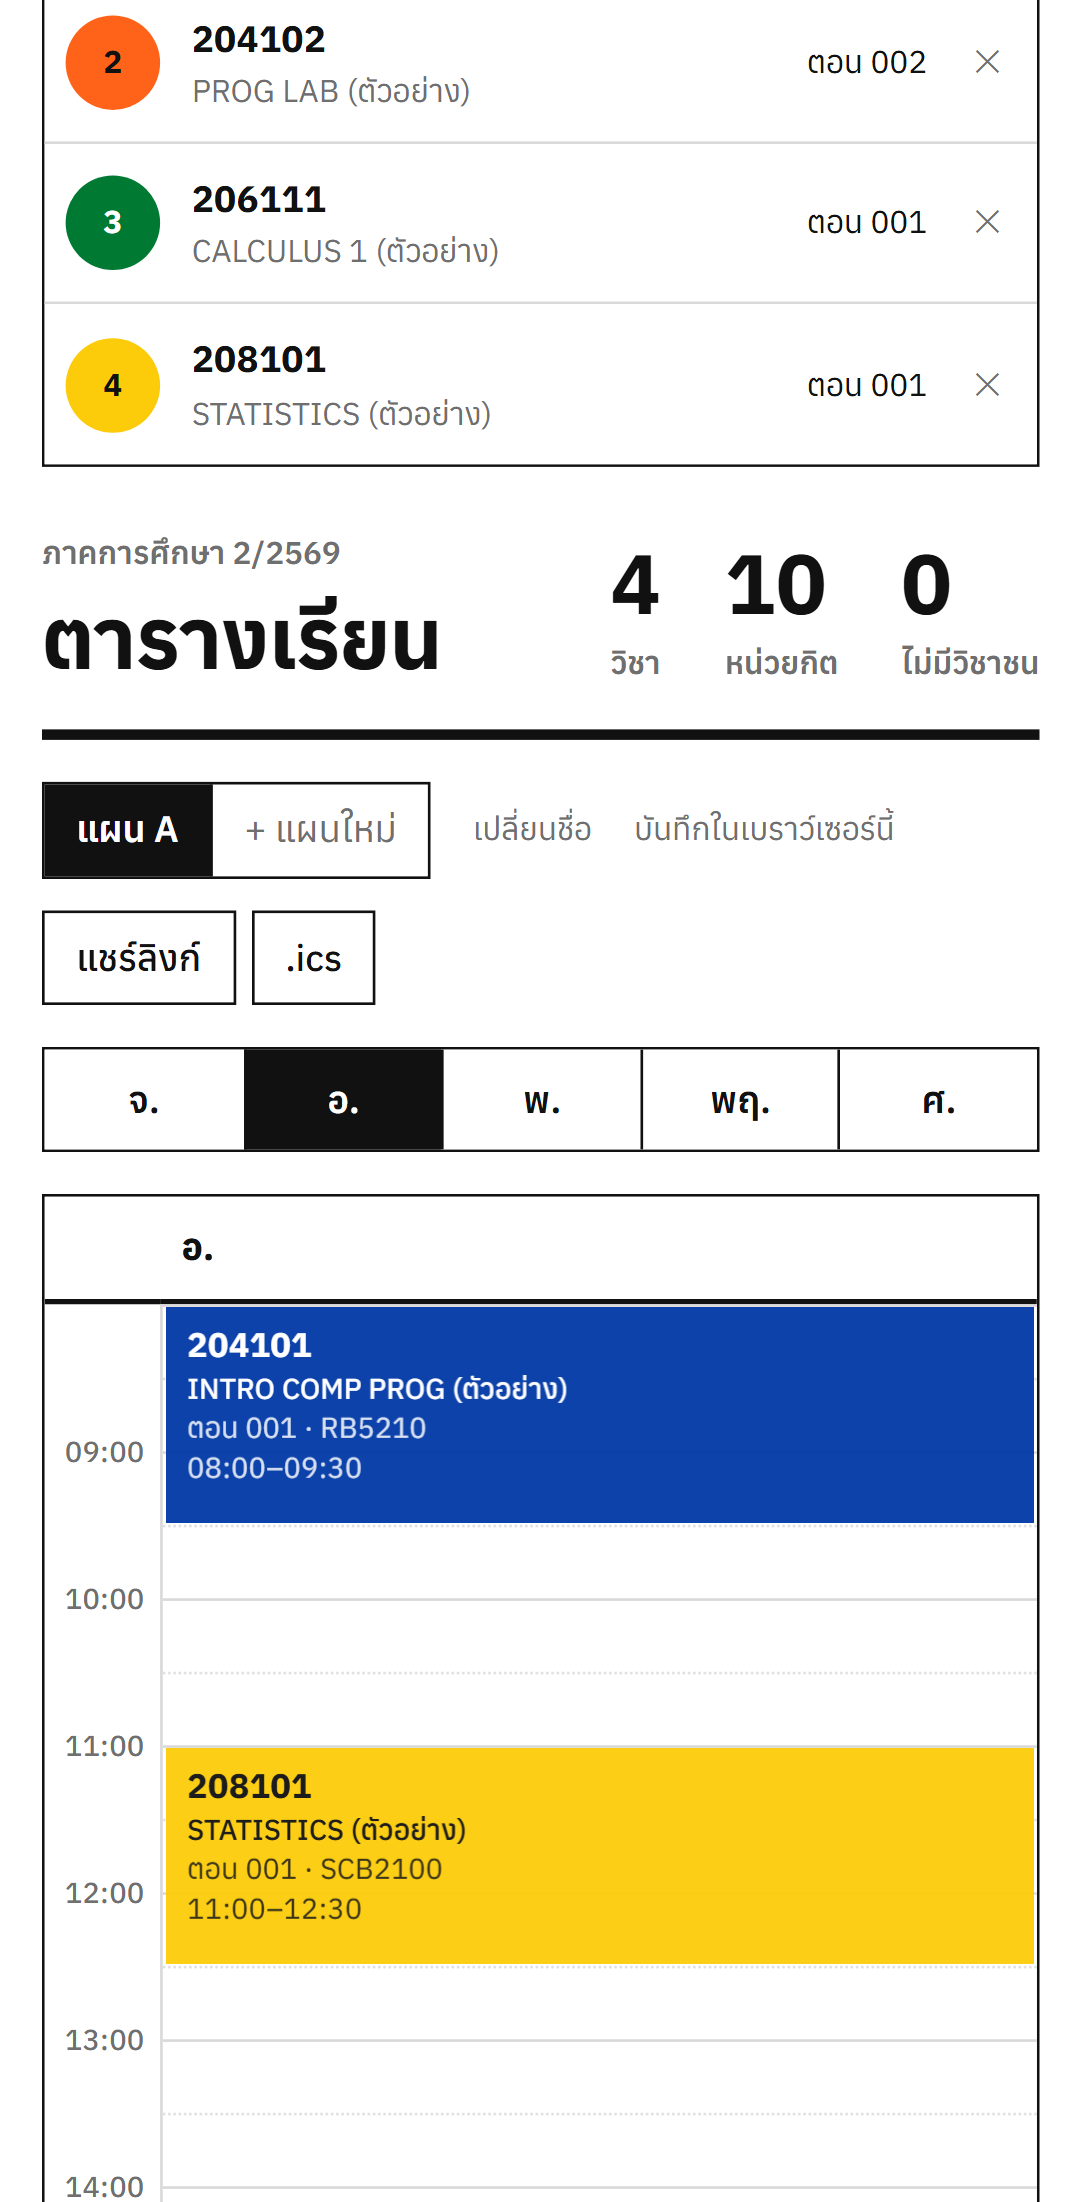
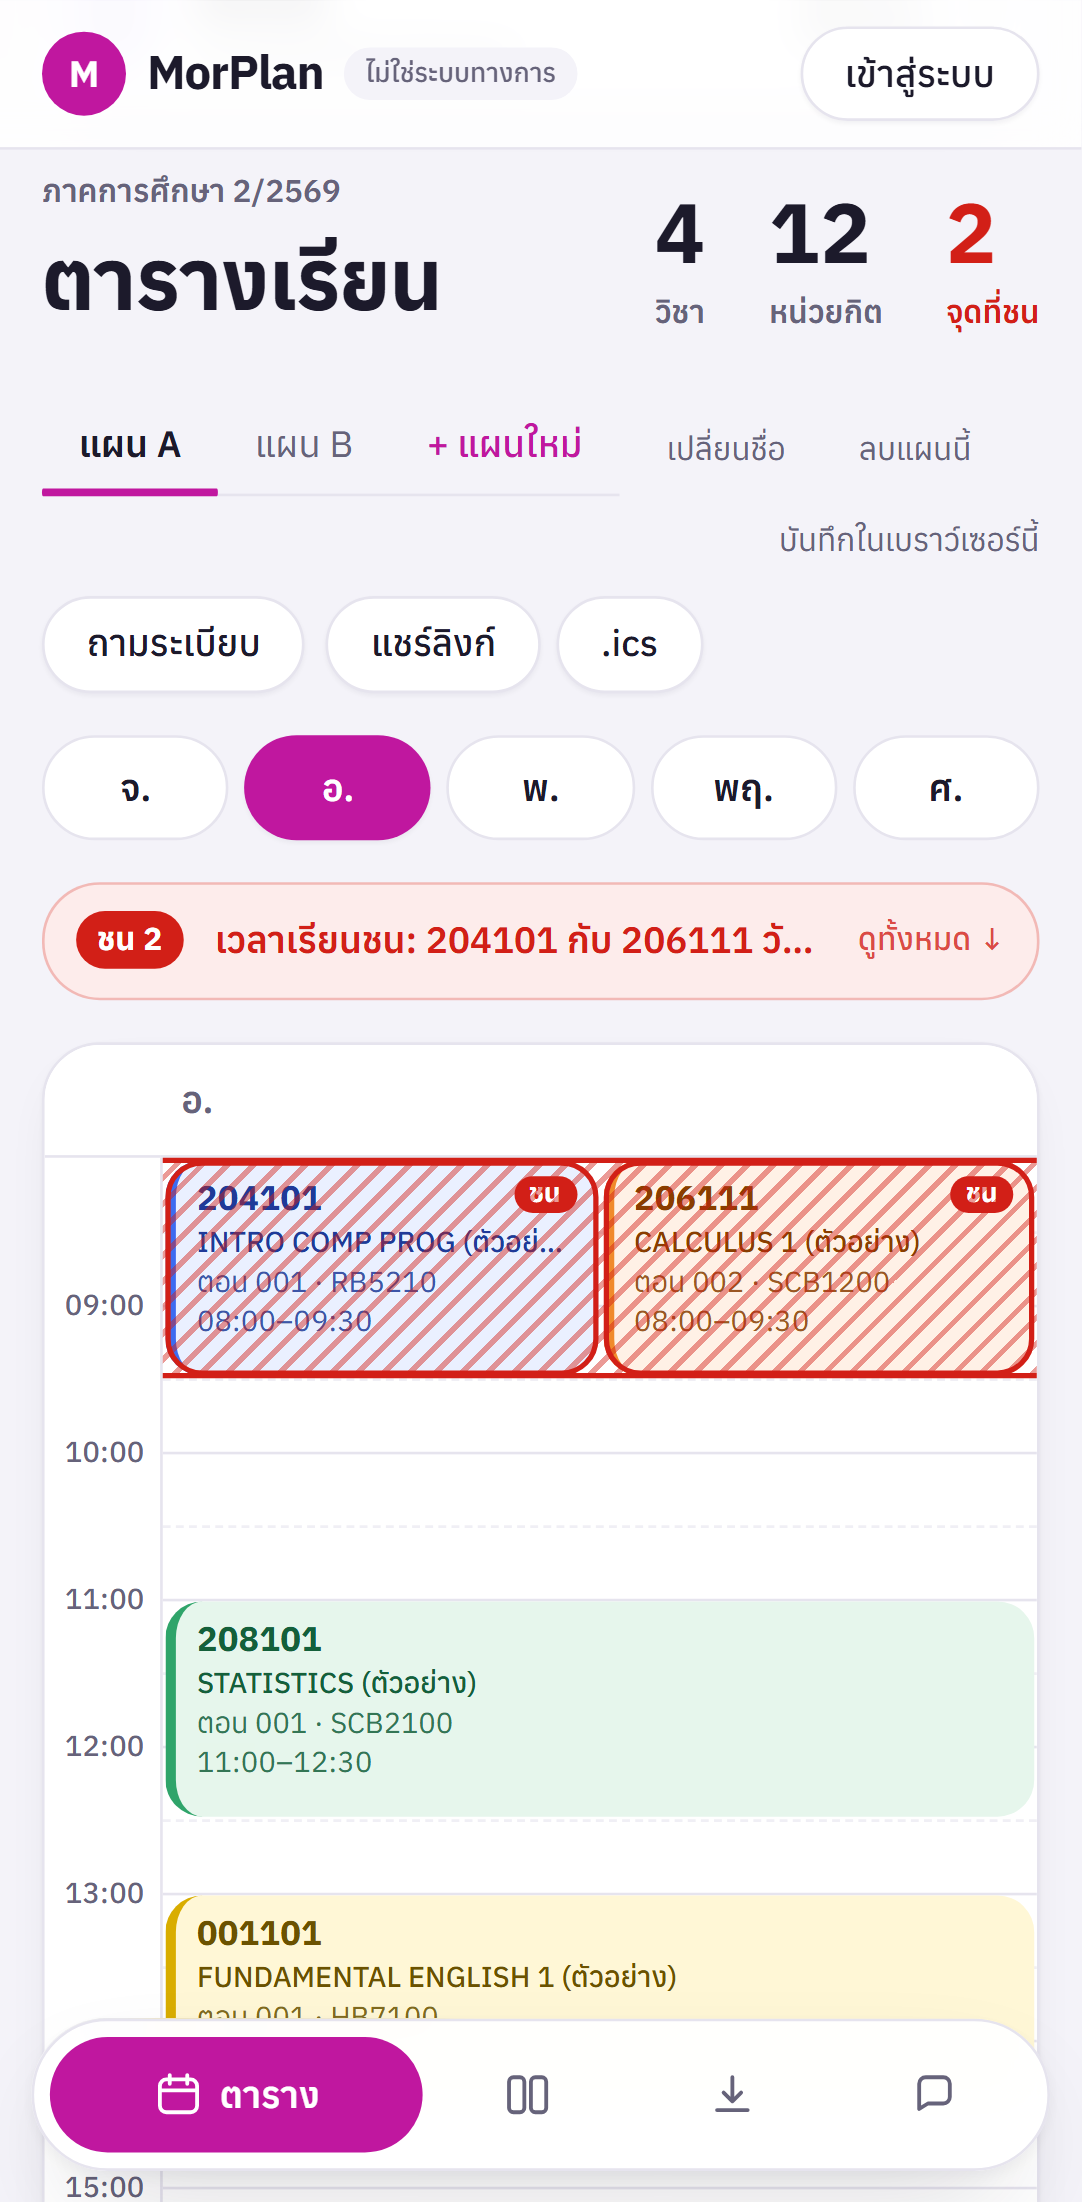
docs: fresh screenshots from the live site; fix flaky keyboard e2e
- scripts/screenshots.mts captures planner, drag, compare, ask and phone
  shots at 2x from a deployment using the demo data
- README shows the new soft design, incl. plan comparison
- keyboard clash test waits for the ghost slots and for each live-region
  update before reading it (failed intermittently against production)

diff --git a/e2e/planner.spec.ts b/e2e/planner.spec.ts
@@ -17,6 +17,7 @@ async function want(page: Page, courseNo: string) {
 
 const trayItem = (page: Page, courseNo: string) =>
   page.locator('li [aria-roledescription="วิชาที่ลากได้"]', { hasText: courseNo });
+const ghostSlots = (page: Page) => page.locator("div.border-dashed", { hasText: "ตอน" });
 const calendar = (page: Page) => page.getByRole("group", { name: "ตารางเรียนรายสัปดาห์" }).first();
 
 test("drag a course from the tray onto a section slot", async ({ page }) => {
@@ -48,6 +49,8 @@ test("place sections with the keyboard and see a clash", async ({ page }) => {
   await page.keyboard.press("Space");
   // The pick-up message is replaced at once by "over the tray" (where the item starts).
   await expect(live(page)).toContainText("เอาออกจากตาราง");
+  // Arrow keys only move between slots once they are on screen.
+  await expect(ghostSlots(page).first()).toBeVisible();
   await page.keyboard.press("ArrowRight");
   await expect(live(page)).toContainText("ตอน 002 วันจันทร์");
   await page.keyboard.press("ArrowRight");
@@ -58,8 +61,12 @@ test("place sections with the keyboard and see a clash", async ({ page }) => {
   // 206111 section 002 is TuF 08:00 too, so it must be announced and shown as a clash.
   await trayItem(page, "206111").focus();
   await page.keyboard.press("Space");
+  await expect(ghostSlots(page).first()).toBeVisible();
   for (let i = 0; i < 6; i++) {
+    const before = await live(page).textContent();
     await page.keyboard.press("ArrowRight");
+    // Read the announcement only after it changes; on a slow host the old text lingers.
+    await expect.poll(() => live(page).textContent()).not.toBe(before);
     if ((await live(page).textContent())?.includes("ตอน 002 วันอังคาร")) break;
   }
   await expect(live(page)).toContainText("ชนกับวิชาอื่น");

diff --git a/README.md b/README.md
@@ -8,9 +8,15 @@
 
 ![Planner](docs/screenshots/planner.png)
 
-| Dragging shows every section as a slot (clashes in red) | Rule Q&A with citations | Phone view |
-|---|---|---|
-| ![Drag](docs/screenshots/drag.png) | ![Ask](docs/screenshots/ask.png) | ![Mobile](docs/screenshots/mobile.png) |
+| Dragging shows every section as a slot (clashes in red) | Plans side by side |
+|---|---|
+| ![Drag](docs/screenshots/drag.png) | ![Compare](docs/screenshots/compare.png) |
+
+| Rule Q&A with page citations | Phone view |
+|---|---|
+| ![Ask](docs/screenshots/ask.png) | <img src="docs/screenshots/mobile.png" alt="Phone view" width="300"> |
+
+Screenshots are taken from the live site with the built-in demo data: `npx tsx scripts/screenshots.mts`.
 
 ## What it does
 
